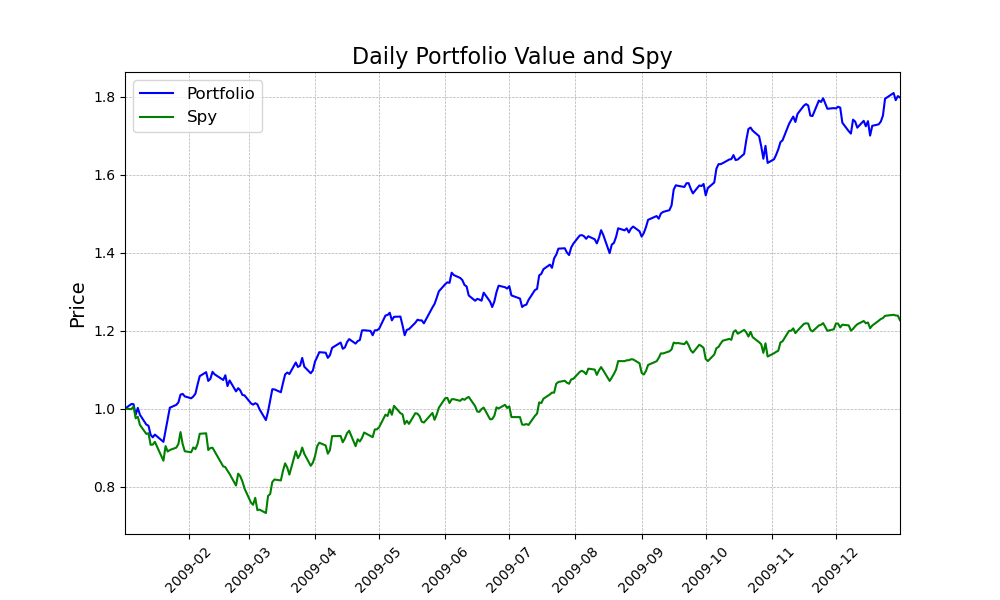
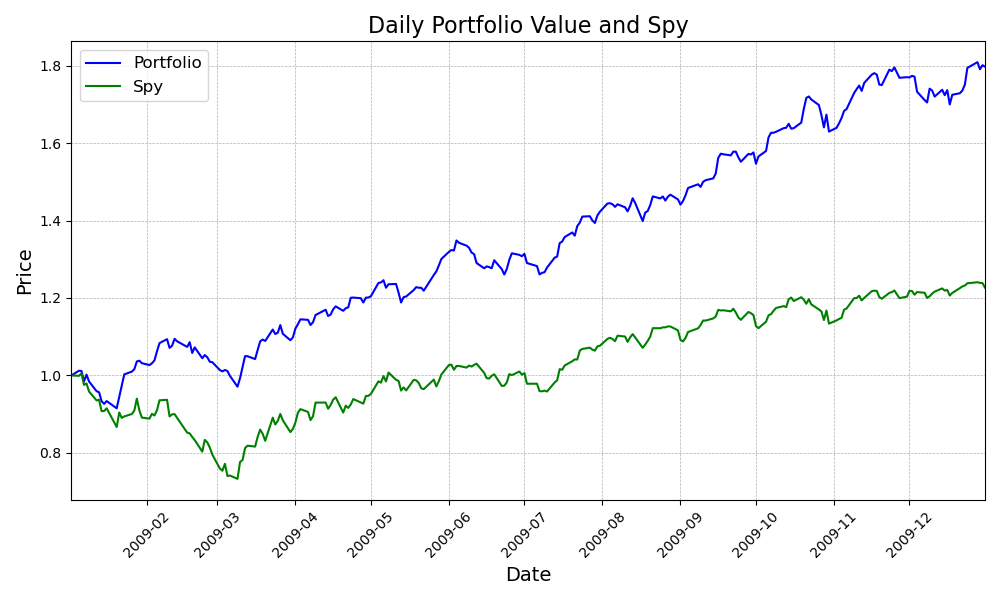
Add fix for chart issues

diff --git a/optimize_something/optimization.py b/optimize_something/optimization.py
@@ -96,8 +96,8 @@ def optimize_portfolio(
 
     prices_spy = prices_SPY / prices_SPY[0]
        
-    if gen_plot:  		  	   		 	   		  		  		    	 		 		   		 		  
-        # add code to plot here  		  	   		 	   		  		  		    	 		 		   		 		  
+    if gen_plot:  		  	   		
+
         df_temp = pd.concat(  		  	   		 	   		  		  		    	 		 		   		 		  
             [port_val, prices_spy], keys=["Portfolio", "SPY"], axis=1  		  	   		 	   		  		  		    	 		 		   		 		  
         )
@@ -110,9 +110,10 @@ def optimize_portfolio(
         plt.ylabel('Price', fontsize=14)
         plt.xlim([df_temp.index.min(), df_temp.index.max()])
         plt.xticks(rotation=45)
-        plt.grid(visible=True, which='both', axis='both', linestyle='--', linewidth=0.5)
+        plt.grid(visible=True, linestyle='--', linewidth=0.5)
         plt.title('Daily Portfolio Value and Spy', fontsize=16)
         plt.legend(loc=0, fontsize=12)
+        plt.tight_layout()
         plt.savefig('images/figure1.png')
 
         pass  		  	   		 	   		  		  		    	 		 		   		 		  
